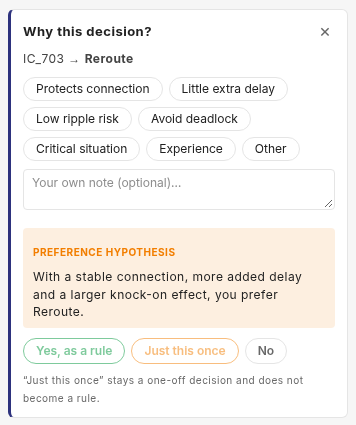
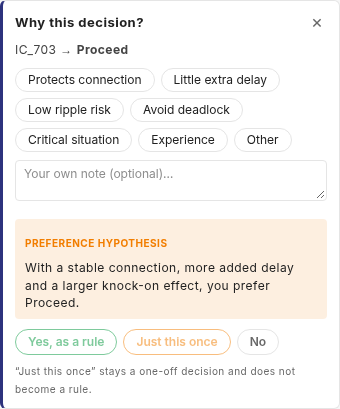
docs(plans): record S8-S11 as built for #160 and retake the short "why?".
The status and step tables get the commits of S8-S11, findings 3, 10, 12,
20 and 21 are fixed, and §6 holds what was checked. The two pictures of the
short "why?" in Co-Learning study 3 are retaken with the label fixed in S9;
the host script now takes both.

diff --git a/docs/plans/reflection-inline.md b/docs/plans/reflection-inline.md
@@ -2,7 +2,8 @@
 
 > **Status:** plan, 2026-11-05. S1-S5 and S7 are committed as one commit,
 > 15a13ca, S6 as 261d355; findings 1, 2, 4 and 13-17 are fixed. S8-S11 (findings
-> 21, 12, 20 and 3) are open; 5-11, 18 and 22 are open findings, 19 a follow-up
+> 21, 12 with 10, 20 and 3) are fixed in 29e532c, fe118fa, db98202 and f29b32b; 5-9, 11, 18 and
+> 22 are open findings, 19 a follow-up
 > (§9). Based on `main` 1e33088,
 > which has #150 ([PR #172](https://github.com/flatland-association/flatland-ui-hub/pull/172)):
 > its decision log toggle covers what this plan first designed for opening
@@ -40,10 +41,10 @@
 | S6 | docs(plans): screenshots of the reflection in the decision panel for #160. | ✅ 261d355 |
 | S7 | feat(tour): let a tour pause the run while a reflection is shown. | ✅ 15a13ca |
 | - | docs(plans): record where a reflection shows and how its consumers react, for #160. | ✅ 190099e |
-| S8 | fix(rationale-capture): start empty for a new decision. | open |
-| S9 | fix(rationale-capture): name the course actually taken. | open |
-| S10 | fix(reflection): ask a reflection only where a place can show it. | open |
-| S11 | fix(view-tracker): log a shown reflection as part of the working screen. | open |
+| S8 | fix(rationale-capture): start empty for a new decision. | ✅ 29e532c |
+| S9 | fix(rationale-capture): name the course actually taken. | ✅ fe118fa |
+| S10 | fix(reflection): ask a reflection only where a place can show it. | ✅ db98202 |
+| S11 | fix(view-tracker): log a shown reflection as part of the working screen. | ✅ f29b32b |
 
 S1-S5 and S7 share files and hunks, so they went in as one commit, 15a13ca,
 with the message "feat(reflection): ask the reflection in «Handlungsvergleich»
@@ -128,8 +129,8 @@ Reused concepts:
 | `TourGuideComponent` | Leads through the tour's steps. Not where a scenario is finished in an experiment run (the toolbar). | 🟨 modified: «Reflexion öffnen» reopens the newest open reflection, now in the panel; «Schicht beenden» is refused while reflections are open. | <img src="reflection-inline/before-5-guide.png" width="360"> | <img src="reflection-inline/after-5-guide.png" width="360"> |
 | `AppComponent.finishDemoMode` / `ToolbarComponent` | Finishes a scenario or tour leg from the toolbar. Not where the reflection is asked. | 🟨 modified: refuses while reflections are open, and says so next to the button. | <img src="reflection-inline/before-6-finish.png" width="360"> | <img src="reflection-inline/after-8-toolbar-refused.png" width="360"> (finish refused) |
 | `TourBriefing` / `TourContextService` | Describe a tour and answer what it asks for (reasons, debrief, sandbox, …). Not where the run is paused (`AppComponent`). | 🟨 modified: a tour can ask for the run to pause while a reflection is shown (§4.7). | – | – |
-| `RationaleCaptureComponent` | The short "why?" prompt with reason chips, in the Recommendation panel and the Co-Learning reflection panel, for sessions that are not a reason tour. Not the reflection of a reason tour (`ReflectionPromptComponent`). | 🟨 modified (S8, S9, open): starts empty for a new decision, and names the course actually taken; it still asks about the latest decision as on `main` (finding 4). | <img src="reflection-inline/before-9-rationale-capture.png" width="220"> | <img src="reflection-inline/after-9-rationale-capture.png" width="220"> |
-| Places registry (S10, name open) | Knows whether any place that can show a "why?" is in the layout. Not which one shows it (D15), and not the reflection itself (`SessionStore`). | 🟩 added (S10, open): a decision asks a "why?" only where the participant can see it. | – | – |
+| `RationaleCaptureComponent` | The short "why?" prompt with reason chips, in the Recommendation panel and the Co-Learning reflection panel, for sessions that are not a reason tour. Not the reflection of a reason tour (`ReflectionPromptComponent`). | 🟨 modified (S8, S9): starts empty for a new decision, and names the course actually taken; it still asks about the latest decision as on `main` (finding 4). | <img src="reflection-inline/before-9-rationale-capture.png" width="220"> | <img src="reflection-inline/after-9-rationale-capture.png" width="220"> |
+| `AppComponent.reflectionPlaceInLayout` | Says whether the active layout has a panel that can show a "why?", expanded or collapsed. Not which one shows it (D15), and not the reflection itself (`SessionStore`). | 🟩 added (S10): a decision asks a "why?" only where the participant can see it. | – | –
 
 Pictures from `plan-b-p01`, leg 1, Plan B deployment config, except
 `RationaleCaptureComponent`: `preset-colearning-study3` (English), after
@@ -168,7 +169,7 @@ The code keeps no list of its own; these become comments at the places named.
 - A hand-built layout with several places shows one reflection in each, with
   different forms (D15, finding 19).
 - Where no place can show a "why?", the decision is logged without a reason
-  (Q9; S10, open).
+  (Q9; S10).
 - «Nein» without a reason chip counts as answered (Q2, D12), so requirement 4
   can be met without giving a reason. The record shows it:
   `hypothesisResponse: 'no'` and an empty `rationale`.
@@ -219,7 +220,7 @@ Compared with `main` 1e33088; the reused concepts are listed under the design pr
 | `TourBriefing.pauseOnReflection`, off by default | the `reasonDialog` flag and the removed dialog's pause effect | §4.7 |
 | `SessionStore.queueReflections`: the queue only in reason tours, set by `AppComponent` from the tour | the store's own signals; the store still does not read the tour | §4.1, finding 4 |
 | `pendingRationale` derived (read-only) from the open list | `computed`, as elsewhere in the store | §4.1, finding 1 |
-| A decision asks a "why?" only where a place can show it | the places that show it, registering themselves (S10, open) | §9, "Findings 19-21", Q9 |
+| A decision asks a "why?" only where a place can show it | the app setting a store flag from the layout, as it does for `queueReflections` (S10) | §9, "Findings 19-21", Q9 |
 
 Not new on purpose: no new panel, no new UiConfig id, no change to the
 reflection's questions, no change to the payload sent to the backend.
@@ -249,9 +250,9 @@ gains two optional fields, which older readers ignore. Behaviour:
 - S9: after «Plan behalten» the short "why?" and its hypothesis say
   "Weiterfahren", not "Umleiten" (finding 12). Study 3's Co-Learning records
   before and after differ in that text.
-- S10 (open): where no place can show a "why?" (Recommendation study 3, the
+- S10: where no place can show a "why?" (Recommendation study 3, the
   Zug-Weg tours), decisions no longer wait for one (Q9). Intended.
-- S11 (open): the screen `reflection` is no longer logged, in any mode; the
+- S11: the screen `reflection` is no longer logged, in any mode; the
   working screen `session` carries `detail.reflection` instead, and clicks
   during a reflection say `view: 'session'` (D17). Records before and after
   differ in screen times and click views; an analysis of older records reads
@@ -623,9 +624,9 @@ asked for.
 |---|---|
 | `frontend/src/app/features/proposal-compare/proposal-compare.component.spec.ts` | The reflection shows in a `reasonDialog` tour after a decision, not otherwise; the new title |
 | `scripts/docshots-reflection-inline.mjs` | Before/after screenshots (§2, §6) |
-| `scripts/docshots-reflection-hosts.mjs` | Pictures of each place that shows a reflection, and how many show one (§9) |
+| `scripts/docshots-reflection-hosts.mjs` | Pictures of each place that shows a reflection, and how many show one (§9); the short "why?" of the components table |
 | `frontend/src/app/core/operator-model-bridge.service.spec.ts` | Open decisions are held back and reported once answered (finding 1) |
-| The places registry and its spec (S10, path open) | Whether a panel that can show a "why?" is in the layout (D16) |
+| `frontend/src/app/features/rationale-capture/rationale-capture.component.spec.ts` | S8: a newer decision empties the short "why?"; S9: its label after «Plan behalten» |
 | `docs/plans/reflection-inline/*.png` | Before pictures (§2), after pictures |
 
 ### Modified files
@@ -642,10 +643,10 @@ asked for.
 | `frontend/src/app/features/decision-log/decision-log-panel.component.ts` / `.html` / `.scss` / `.spec.ts` | open/answered marks, open count next to the toggle, «Offene Reflexionen anzeigen», `highlightOpen` and its specs |
 | `frontend/src/app/features/tour-guide/tour-guide.component.ts` / `.html` / `.spec.ts` | `canReflect` from the list; «Schicht beenden» gated (`endShift()`) |
 | `frontend/src/app/features/toolbar/toolbar.component.html` / `.scss` / `.spec.ts` | the refusal message |
-| `frontend/src/app/app.component.ts` / `.html` | the gate in `finishDemoMode()`; the dialog removed; the `queueReflections` sync (finding 4); `shiftScreenOpen()` waits for open reflections (finding 2); the reflection pause effect (S7) |
+| `frontend/src/app/app.component.ts` / `.html` | the gate in `finishDemoMode()`; the dialog removed; the `queueReflections` sync (finding 4); `shiftScreenOpen()` waits for open reflections (finding 2); the reflection pause effect (S7); S10: `reflectionPlaceInLayout` |
 | `frontend/src/app/core/demo/tour-briefings.ts` | `reasonDialog` doc comment; hints with the new title; the `reflect` hint without the pause (finding 13); `pauseOnReflection` (S7) |
 | `frontend/src/app/core/demo/tour-context.service.ts` | `pauseOnReflection` (S7) |
-| `frontend/src/app/app.component.spec.ts` | the reflection pause: pauses on show, resumes on close only if it paused, not in Director, not after the shift review (S7) |
+| `frontend/src/app/app.component.spec.ts` | the reflection pause: pauses on show, resumes on close only if it paused, not in Director, not after the shift review (S7); S10: a place in the system layout, in presets with and without one, and «Handlungsvergleich» only in a reason tour |
 | `frontend/src/app/core/widgets/widget-catalog.ts` | the panel's name |
 | `frontend/src/app/core/i18n/panel-titles.ts` | «Handlungsvergleich» → `panels.planAiHuman`, next to the old title |
 | `frontend/src/app/core/layout/layout-presets.ts` | the interview preset's comment: the reason is asked in the decision panel |
@@ -653,7 +654,6 @@ asked for.
 | `frontend/src/app/core/session.store.spec.ts` | a second decision waits while one is shown; dismiss keeps it open; submit stamps and shows the next; the refusal; the resets |
 | `docs/experiment-logging.md` | the click id table, regenerated with `node frontend/scripts/data-log-ids.mjs`: `log.reflectionOpen`, `log.showOpenReflections`; S11: the screen table (`reflection` goes, `session` gains `reflection`) and how to read older records |
 | `frontend/src/app/core/interaction-log/view-tracker.service.ts` / `.spec.ts` | S11: a waiting reflection as `detail.reflection` on `session` |
-| `frontend/src/app/core/interaction-log/click-log.service.spec.ts` | S11: a click during a reflection carries `view: 'session'` |
 
 ### Removed files
 
@@ -717,6 +717,21 @@ tree:
 the step stands while the reflection is shown (7 → 7) and counts on after ×
 (8 → 10). Without the flag it counts on (table above).
 
+**S8-S11 (2026-11-06).** The frontend suite passes with 678 specs;
+`i18n:check`, `lint:styles` and the production build pass. In the running
+app:
+
+- S11, the Plan B recording of §9 (finding 3) repeated: no `view_enter` with
+  `view: 'reflection'`; the working screen gets `reflection: rationale` at
+  step 7 and loses it after the answer at step 11; all clicks of steps 8-11
+  (tab, Fahrplan, the answer) carry `view: 'session'`.
+- S9, Co-Learning study 3 after «Plan behalten»: the short "why?" reads
+  "IC_703 → Proceed", and its hypothesis "you prefer Proceed" (before:
+  "Reroute"). Retaken in `host-1-co-learning-reflection.png` and
+  `after-9-rationale-capture.png`.
+- S8 and S10: specs only. Not checked in the running app: Recommendation
+  study 3 asking nothing after an override.
+
 Not yet checked in the running app: a second decision while one is open,
 finishing after a bare «Nein», the exported record's `reflectedAt`, leg 2,
 `colearning-experiment`, the interview tour and a Recommendation tour. The
@@ -733,15 +748,15 @@ specs cover the first three.
 | ✅ | S5 | Rename to «Handlungsvergleich» (de, en, fr, briefings, catalog) | - |
 | ✅ | S6 | Docs and after screenshots | S2-S5, S7 |
 | ✅ | S7 | `pauseOnReflection`: flag, the pause effect in `AppComponent`, spec; no tour sets it (Q7) | S1, S3 |
-|  | S8 | Short "why?" starts empty for a new decision, with a spec (finding 21) | - |
-|  | S9 | Short "why?" names the logged course, through one lookup shared with the reflection prompt (findings 12, 10), with a spec | - |
-|  | S10 | Ask a "why?" only where a place can show it: a panel in the layout, expanded or collapsed (finding 20, D16) | - |
-|  | S11 | Log a waiting reflection as `session` with `detail.reflection`, in every mode; specs for the screen log and a click's `view`; the table in `docs/experiment-logging.md` (finding 3, D17) | - |
+| ✅ | S8 | Short "why?" starts empty for a new decision, with a spec (finding 21) | - |
+| ✅ | S9 | Short "why?" names the logged course, through one lookup shared with the reflection prompt (findings 12, 10), with a spec | - |
+| ✅ | S10 | Ask a "why?" only where a place can show it: a panel in the layout, expanded or collapsed (finding 20, D16) | - |
+| ✅ | S11 | Log a waiting reflection as `session` with `detail.reflection`, in every mode; specs for the screen log and a click's `view`; the table in `docs/experiment-logging.md` (finding 3, D17) | - |
 
 Each step passes the CI checks on its own. S1-S5 and S7 went in as one
 commit (status table). Finding 13's fix is in S3, which removes the pause.
-Findings 21, 12 (with 10), 20 and 3 are planned as S8-S11; 5-9, 11, 18 and
-22 are open, 19 is a follow-up.
+Findings 21, 12 (with 10), 20 and 3 are fixed in S8-S11;
+5-9, 11, 18 and 22 are open, 19 is a follow-up.
 
 ## 8. Open questions
 
@@ -858,25 +873,25 @@ finding fixed in the code whose thread is not resolved on GitHub yet.
 |---|---|---|---|---|---|---|
 | ✅ | 1 | code review | bug | low | `frontend/src/app/core/operator-model-bridge.service.ts:24,92`, `frontend/src/app/core/session.store.ts:892`: the bridge holds back only the reflection *shown* (`pendingRationale`) before it reports a decision to the operator model. A decision that waits in `openReflections`, or was closed with ×, is reported at once without its answer and marked reported, so a later «Ja, als Regel» never calls `recordLearning`. The cause is two writable signals for one fact, kept in step by hand at 13 places. Low because only the Director-only `co-learning-effect` panel creates the bridge: Plan B and the interview tour never run it, and a new leg starts with no open reflections. On `main` a closed reflection answered later was lost the same way. Fix: `openReflections` the only stored list, `pendingRationale` derived from it, the bridge holding back every open decision (diagram and fix below the table). Fixed in 15a13ca: `pendingRationale` is derived from `openReflections` and `_shownSeq`, and the bridge holds back every open decision; new `operator-model-bridge.service.spec.ts`. | feat(reflection): ask the reflection in «Handlungsvergleich» without pausing the run. |
 | ✅ | 2 | code review | bug | high | `frontend/src/app/app.component.ts:1283`, `frontend/src/app/features/tour-debrief/tour-debrief.component.ts:268`: in a tour that is not an experiment run (the interview tour, gated since Q4), the episode ending on its own opens the debrief, which hides the panels (`is-behind`), and its way back is off once `episodeDone`. With a reflection still open, the finish is refused and the reflection can no longer be reached: the tour cannot be finished. Plan B is not affected (no debrief between legs while `running`). Fix: show the open reflection in the debrief, or let the debrief's finish open the shift again while reflections are open. Fixed in 15a13ca, option a): `AppComponent.shiftScreenOpen()` stays closed while `reflectionsMissing() > 0`, so a refused finish brings the working screen back; the debrief opens again once all are answered. No spec: `AppComponent` has none for the shift screen (finding 11). | feat(reflection): ask the reflection in «Handlungsvergleich» without pausing the run. |
+| ✅ | 3 | code review | design | medium | `frontend/src/app/core/interaction-log/view-tracker.service.ts:68-70`, `frontend/src/app/core/interaction-log/click-log.service.ts:72`: a reflection that is shown counts as a screen of its own, `reflection`, in every mode and for all three kinds (`rationale`, `co-learning`, `strategy`). Since #160 none of them is an overlay: each sits in a panel while the participant goes on working. The screen log books that time as "reflection" and drops map/Marey switches and guide steps, every click made meanwhile carries `view: 'reflection'`, and the replay misses those switches. Outside the reason tours this was so on `main` too. Proposal: the working screen `session` with `detail.reflection = <kind>`, everywhere (details and tables below). Changes the logs of every condition. Fixed in f29b32b (S11): `session` with `detail.reflection`; checked with the Plan B recording. | fix(view-tracker): log a shown reflection as part of the working screen. |
 | ✅ | 4 | code review | design | medium | `frontend/src/app/core/session.store.ts:1403`: the queue applies in every session, not only in `reasonDialog` tours. With `rationale-capture` (Recommendation, the Co-Learning reflection panel) a new decision no longer replaces the shown prompt, and closing one shows an older one out of context. The plan says these stay unchanged (§1.3). Fix: keep the old replace-and-forget behaviour unless the tour asks for reasons, e.g. `_askReflection` taking a `queue` flag set by a store signal the app syncs from `tour.reasonDialog()`. Fixed in 15a13ca: `SessionStore.queueReflections`, set by `AppComponent` from `tour.reasonDialog()`; off, a new decision replaces the shown one and × drops it, as on `main`. | feat(reflection): ask the reflection in «Handlungsvergleich» without pausing the run. |
+| ✅ | 10 | code review | refactor | low | `frontend/src/app/features/reflection-prompt/reflection-prompt.component.ts:113,143`, `frontend/src/app/core/session.store.ts:1277`: the logged-label lookup is written twice (prompt and `submitRationale`), and `strategyLabel()` only wraps `label()`. Fix: one store method `strategyLabelFor(pending)` used by both. Fixed in fe118fa (S9): `SessionStore.rationaleLabel`. | fix(rationale-capture): name the course actually taken. |
+| ✅ | 12 | screenshots | bug | medium | `frontend/src/app/features/rationale-capture/rationale-capture.component.ts:73,78`: the short "why?" prompt shows the same wrong label as D8 fixed in the reflection: after «Plan behalten» in the decision panel it says "IC_703 → Reroute" and "you prefer Reroute", because it calls `strategyLabelForAction(p.action, t)` without the logged choice. Seen on 2026-11-06 in `preset-colearning-study3`, a study condition, so participants of that condition read a hypothesis about a course they did not take. On `main` too. Fix: the same lookup as the reflection, best through the one store method of finding 10. Fixed in fe118fa (S9): one lookup, `SessionStore.rationaleLabel`, for both prompts and the record; checked in the running app. | fix(rationale-capture): name the course actually taken. |
 | ✅ | 13 | review against this plan | docs | low | `frontend/src/app/core/demo/tour-briefings.ts:241,597`: the guide step «Reflexion» still said "Nach deiner Entscheidung hält die Simulation an" (and "the simulation pauses" in English). All eight `reasonDialog` briefings show it (§2), so after #160 the guide contradicts the running clock. Fixed in 15a13ca: both hints now say the decision panel asks while the simulation keeps running, and that the decision log shows open reflections, all of which must be answered before finishing. | feat(reflection): ask the reflection in «Handlungsvergleich» without pausing the run. |
 | ✅ | 14 | [PR comment](https://github.com/flatland-association/flatland-ui-hub/pull/176#discussion_r4483074726), resolved | design | medium | `docs/plans/reflection-inline.md:524` (at 8e4b449): which option for Q2, does «Nein» count as a reflection? @CleverManu: a), leave it as it is; the module will be rephrased, and «Nein» may go. Fixed in 8e4b449: recorded as Q2 a and D12. | docs(plans): record the decisions on Q2, Q3 and Q4 for #160. |
 | ✅ | 15 | [PR comment](https://github.com/flatland-association/flatland-ui-hub/pull/176#discussion_r4483076853), resolved | design | medium | `docs/plans/reflection-inline.md:533` (at 8e4b449): which option for Q4, does the interview tour refuse to finish too? @CleverManu: a). Fixed in 8e4b449: recorded as Q4 a and D13. | docs(plans): record the decisions on Q2, Q3 and Q4 for #160. |
 | ✅ ❌ | 16 | [PR comment](https://github.com/flatland-association/flatland-ui-hub/pull/176#discussion_r4485910809) | design | medium | `docs/plans/reflection-inline.md:260` (at 8e4b449): D6, finishing with open reflections is refused; @CleverManu agreed. Fixed in 15a13ca: built as decided (§4.4). | feat(reflection): ask the reflection in «Handlungsvergleich» without pausing the run. |
 | ✅ ❌ | 17 | [PR comment](https://github.com/flatland-association/flatland-ui-hub/pull/176#discussion_r4485915765) | design | medium | `docs/plans/reflection-inline.md:261` (at 8e4b449): D7, `reflectedAt` and `reflectedAtStep` stamped on the decision; @CleverManu agreed. Fixed in 15a13ca: built as decided (§4.1). | feat(reflection): ask the reflection in «Handlungsvergleich» without pausing the run. |
-|  | 3 | code review | design | medium | `frontend/src/app/core/interaction-log/view-tracker.service.ts:68-70`, `frontend/src/app/core/interaction-log/click-log.service.ts:72`: a reflection that is shown counts as a screen of its own, `reflection`, in every mode and for all three kinds (`rationale`, `co-learning`, `strategy`). Since #160 none of them is an overlay: each sits in a panel while the participant goes on working. The screen log books that time as "reflection" and drops map/Marey switches and guide steps, every click made meanwhile carries `view: 'reflection'`, and the replay misses those switches. Outside the reason tours this was so on `main` too. Proposal: the working screen `session` with `detail.reflection = <kind>`, everywhere (details and tables below). Changes the logs of every condition. Open: planned in S11 (Q11 a, D17). | fix(view-tracker): log a shown reflection as part of the working screen. |
+| ✅ | 20 | code review | robustness | medium | `frontend/src/app/core/session.store.ts:2209`, `frontend/src/app/core/layout/layout-presets.ts` (`preset-recommendation-study3`, `preset-olten-zug-weg`, `preset-zug-weg-corridor`): in Recommendation a human override with an AI suggestion asks a "why?", but these layouts (and the `recommendations-classic` variant) have no place to show it. The participant never sees it, the screen log says "reflection" until the next decision replaces it (finding 3), and the decision gets no reason. Affects the study condition "Recommendation · User Study 3" and the two Zug-Weg tours. From the code, not checked in the browser. On `main` too. Fixed in db98202 (S10): `AppComponent.reflectionPlaceInLayout` sets `SessionStore.reflectionPlaceInLayout`; specs for the system layout, presets with and without a place, and Plan B. | fix(reflection): ask a reflection only where a place can show it. |
+| ✅ | 21 | code review | bug | medium | `frontend/src/app/features/rationale-capture/rationale-capture.component.ts:61-63,124-130`: the short "why?" keeps its chips and note until it is answered or closed. Outside reason tours a newer decision replaces the shown one (finding 4), so the reasons picked for the first decision are still selected for the second and are saved with it. `ReflectionPromptComponent` starts empty for a new decision (`reflection-prompt.component.ts:128`). On `main` too. Fix: the same reset when `decisionSeq` changes, with a spec. Fixed in 29e532c (S8): the same reset when `decisionSeq` changes, with a spec. | fix(rationale-capture): start empty for a new decision. |
 |  | 5 | code review | bug | medium | `frontend/src/app/core/session.store.ts:1379,1389`, `frontend/src/app/features/toolbar/toolbar.component.html:101`: `reflectionsMissing` freezes the count at the refused click, so after answering two of three the message still says 3. It is also stored state with an effect only to zero it. Fix: a `finishRefused` flag and `computed(() => finishRefused() ? openReflections().length : 0)`, no effect. Open. | fix(reflection): count the missing reflections live after a refused finish. |
 |  | 6 | code review | robustness | low | `frontend/src/app/features/proposal-compare/proposal-compare.component.ts:93`: a reflection reopened from the log only shows in the decision panel, and not in Director. After a mode switch, or with the panel collapsed or absent, «Reflexion nachtragen» does nothing visible while finishing is refused. Covered by §1.2's assumptions (Co-Learning only, the panel is in the layout), which are not checked in code. Proposal: keep the assumption, and expand nothing (D10); add a test that the `reasonDialog` layouts place the panel. Open. | test(layout): assert that every reasonDialog layout places the decision panel. |
 |  | 7 | code review | design | low | `frontend/src/app/app.component.ts:1283`, `frontend/src/app/features/tour-guide/tour-guide.component.ts:77`: the finish guard is repeated in the two callers. Other ways to end a shift (`director-directive`'s «Schicht beenden», `finishExperiment`) do not check it; today they run only in Director or after the leg is finished. Proposal: one `canFinish()` on `TourContextService`, used by both, with a comment naming the paths that need no gate. Open. | refactor(tour): check open reflections in one place before finishing. |
 |  | 8 | code review | robustness | low | `frontend/src/app/core/session.store.ts:1356,1369`: `reopenRationale(seq)` replaces a reflection being typed, and the prompt resets, contradicting the comment that typed text is never replaced. Listed in §1.1 as a limitation, without the `TODO` it promises. Fix: add the `TODO` and say "a new decision never replaces" in the comment. Open. | docs(reflection): name the reopen case that drops typed text. |
 |  | 9 | code review | robustness | low | `frontend/src/app/features/proposal-compare/proposal-compare.component.ts:133`: `scrollIntoView` scrolls every scrolling ancestor, so a new reflection can move the right column (seen in the after screenshots: the panel above loses its title), and the uncleared `setTimeout` can fire after the panel is destroyed. Fix: scroll only the panel's own body, or drop the scroll. Open. | fix(proposal-compare): scroll only the panel when a reflection appears. |
-|  | 10 | code review | refactor | low | `frontend/src/app/features/reflection-prompt/reflection-prompt.component.ts:113,143`, `frontend/src/app/core/session.store.ts:1277`: the logged-label lookup is written twice (prompt and `submitRationale`), and `strategyLabel()` only wraps `label()`. Fix: one store method `strategyLabelFor(pending)` used by both. Open. | refactor(reflection): look up the logged choice in one place. |
 |  | 11 | code review | test-coverage | low | `frontend/src/app/app.component.ts:1283`: the gate in `finishDemoMode()` has no test, and the `TourContextService` stub is repeated in four spec files. Fix: a spec for the gate, and a shared `provideTourContextStub(reasonDialog)` in `src/testing/`. Open. | test(app): cover the finish gate and share the tour context stub. |
-|  | 12 | screenshots | bug | medium | `frontend/src/app/features/rationale-capture/rationale-capture.component.ts:73,78`: the short "why?" prompt shows the same wrong label as D8 fixed in the reflection: after «Plan behalten» in the decision panel it says "IC_703 → Reroute" and "you prefer Reroute", because it calls `strategyLabelForAction(p.action, t)` without the logged choice. Seen on 2026-11-06 in `preset-colearning-study3`, a study condition, so participants of that condition read a hypothesis about a course they did not take. On `main` too. Fix: the same lookup as the reflection, best through the one store method of finding 10. Open: planned in S9. | fix(rationale-capture): name the course actually taken. |
 |  | 18 | code review | docs | low | `frontend/src/app/app.component.ts:462,1207-1208,1216`, `frontend/src/app/core/demo/tour-briefings.ts:120`, `frontend/src/app/core/i18n/panel-titles.ts:51`, `frontend/src/app/core/operator-model-bridge.service.ts:51`, `frontend/src/app/core/operator-model-bridge.service.spec.ts:12-14,64`, `frontend/src/app/core/session.store.ts:893,1354-1355,1369,1376`, `frontend/src/app/core/session.store.spec.ts:137`, `scripts/docshots-reflection-inline.mjs:1,6`: comments name issue #160, which the PR closes, and the plan's finding numbers ("finding 1", "finding 4"). Once merged they point at a closed issue and at table rows that are not a stable reference. Fix: name the plan's sections and decisions (§4.1, D3, §4.7) instead, and say what happened before in words ("as before the reflection moved into the panel"). Open. | docs(reflection): point code comments at the plan's sections, not at the issue or its findings. |
 | ⏭ | 19 | code review | design | low | `frontend/src/app/features/reflection-prompt/reflection-prompt.component.ts:94`, `frontend/src/app/features/rationale-capture/rationale-capture.component.ts:66`, `frontend/src/app/features/co-learning-reflection/co-learning-reflection.component.ts:73`, `frontend/src/app/features/proposal-compare/proposal-compare.component.ts:93`: every place that can show a "why?" shows it as soon as `pendingRationale` is set; nothing decides which one. In a layout no preset ships (the catalog panel `reflection-prompt` next to «Handlungsvergleich» in a reason tour, the recommendations panel next to the Co-Learning reflection panel) the same reflection shows twice, with different questions. The Co-Learning reflection panel also opens itself for a reflection another panel shows. On `main` the same, and #160 does not worsen it in any shipped setup (reason tours pin layouts with the decision panel only). "One place per mode" is an existing intent (`PANEL_MODE_AVAILABILITY`), enforced only by the system layout; the saved-layout gap is documented in `docs/plans/mode-scoped-layouts-plan.md` §1. Taken over by a follow-up (§1.3): no order in this PR, the study designer chooses the panels (Q10, D15). | fix(reflection): show a reflection in one place only. |
-|  | 20 | code review | robustness | medium | `frontend/src/app/core/session.store.ts:2209`, `frontend/src/app/core/layout/layout-presets.ts` (`preset-recommendation-study3`, `preset-olten-zug-weg`, `preset-zug-weg-corridor`): in Recommendation a human override with an AI suggestion asks a "why?", but these layouts (and the `recommendations-classic` variant) have no place to show it. The participant never sees it, the screen log says "reflection" until the next decision replaces it (finding 3), and the decision gets no reason. Affects the study condition "Recommendation · User Study 3" and the two Zug-Weg tours. From the code, not checked in the browser. On `main` too. Open: planned in S10 (Q9, D16). | fix(reflection): ask a reflection only where a place can show it. |
-|  | 21 | code review | bug | medium | `frontend/src/app/features/rationale-capture/rationale-capture.component.ts:61-63,124-130`: the short "why?" keeps its chips and note until it is answered or closed. Outside reason tours a newer decision replaces the shown one (finding 4), so the reasons picked for the first decision are still selected for the second and are saved with it. `ReflectionPromptComponent` starts empty for a new decision (`reflection-prompt.component.ts:128`). On `main` too. Fix: the same reset when `decisionSeq` changes, with a spec. Open: planned in S8. | fix(rationale-capture): start empty for a new decision. |
 |  | 22 | Q11 recording | robustness | low | `frontend/src/app/core/interaction-log/view-tracker.service.ts:89`: the working screen's `centerTab` is `marey`, `map` or `other`, and Plan B's two tabs, ZWL and Streckenspiegel, both log `map` (recorded 2026-11-06: `centerTab: map` while ZWL was shown). So the screen log cannot say which of the two a participant looked at; the click stream has the tab clicks (`views.zugWeg`, `views.map`). On `main` too. Fix: log the selected tab id. Open. | fix(view-tracker): log which centre tab is shown. |
 
 **Issue references.** The PR closes #160 ("Closes #160" in its description).
@@ -1085,8 +1100,8 @@ panels; none is an overlay since the dialog is gone:
 
 Pictures with `scripts/docshots-reflection-hosts.mjs` (default deployment
 config) and, for the first row, `scripts/docshots-reflection-inline.mjs`, on a
-production build of 15a13ca. The Co-Learning study 3 picture shows the wrong
-label of finding 12.
+production build of 15a13ca; the Co-Learning study 3 picture retaken on
+f29b32b, with the label fixed in S9 (finding 12).
 
 The decision log's «Reflexion nachtragen», the guide's «Reflexion öffnen» and
 the toolbar's refusal are ways back to a reflection, not places that show one.
@@ -1161,12 +1176,10 @@ switch is not visible in the screen log: `centerTab` knows only `marey`,
 - A reflection that waits at the episode's end no longer hides the shift
   review in the log.
 
-**Verification:** specs in `view-tracker.service.spec.ts` (each kind gives
-`session` with `detail.reflection`, the shift review and the mode intro win
-over a waiting reflection) and `click-log.service.spec.ts` (a click while a
-reflection is shown carries `view: 'session'`); in the running app on
-`plan-b-p01`, the exported record has no `view_enter` with `view:
-'reflection'` and a map/Marey switch while the reflection is shown.
+**Verification:** specs in `view-tracker.service.spec.ts`: a waiting
+reflection gives `session` with `detail.reflection`, the view the click log
+reads is `session` meanwhile, and a waiting reflection hides no other screen.
+In the running app: the recording above, repeated (S11 results in §6).
 
 ### Findings 19-21: one reflection, one place, the same reaction
 
@@ -1301,10 +1314,12 @@ where.
   the places at least agree on the course.
 - No place (finding 20, D16, S10): the store asks a "why?" only where a
   place can show it: a panel that can show it is in the active layout,
-  expanded or collapsed, or, in the system layout, the mode's own panel. A
-  small root service next to the store answers it from the layout, so the
-  store stays free of layout knowledge. To check while building: how the
-  system layout appears in the layout store.
+  expanded or collapsed, or, in the system layout, the mode's own panel.
+  `AppComponent` works it out from the active layout and sets
+  `SessionStore.reflectionPlaceInLayout`, as it sets `queueReflections`; the
+  store stays free of layout knowledge. Built so instead of the planned root
+  service: the active layout lives in `AppComponent` (`activeRuntimeDesign()`),
+  not in the layout store.
 - `RationaleCaptureComponent` starts empty for a new decision, as
   `ReflectionPromptComponent` does (S8, finding 21).
 - **Verification:** a spec per row of the setup table, with the layout built
